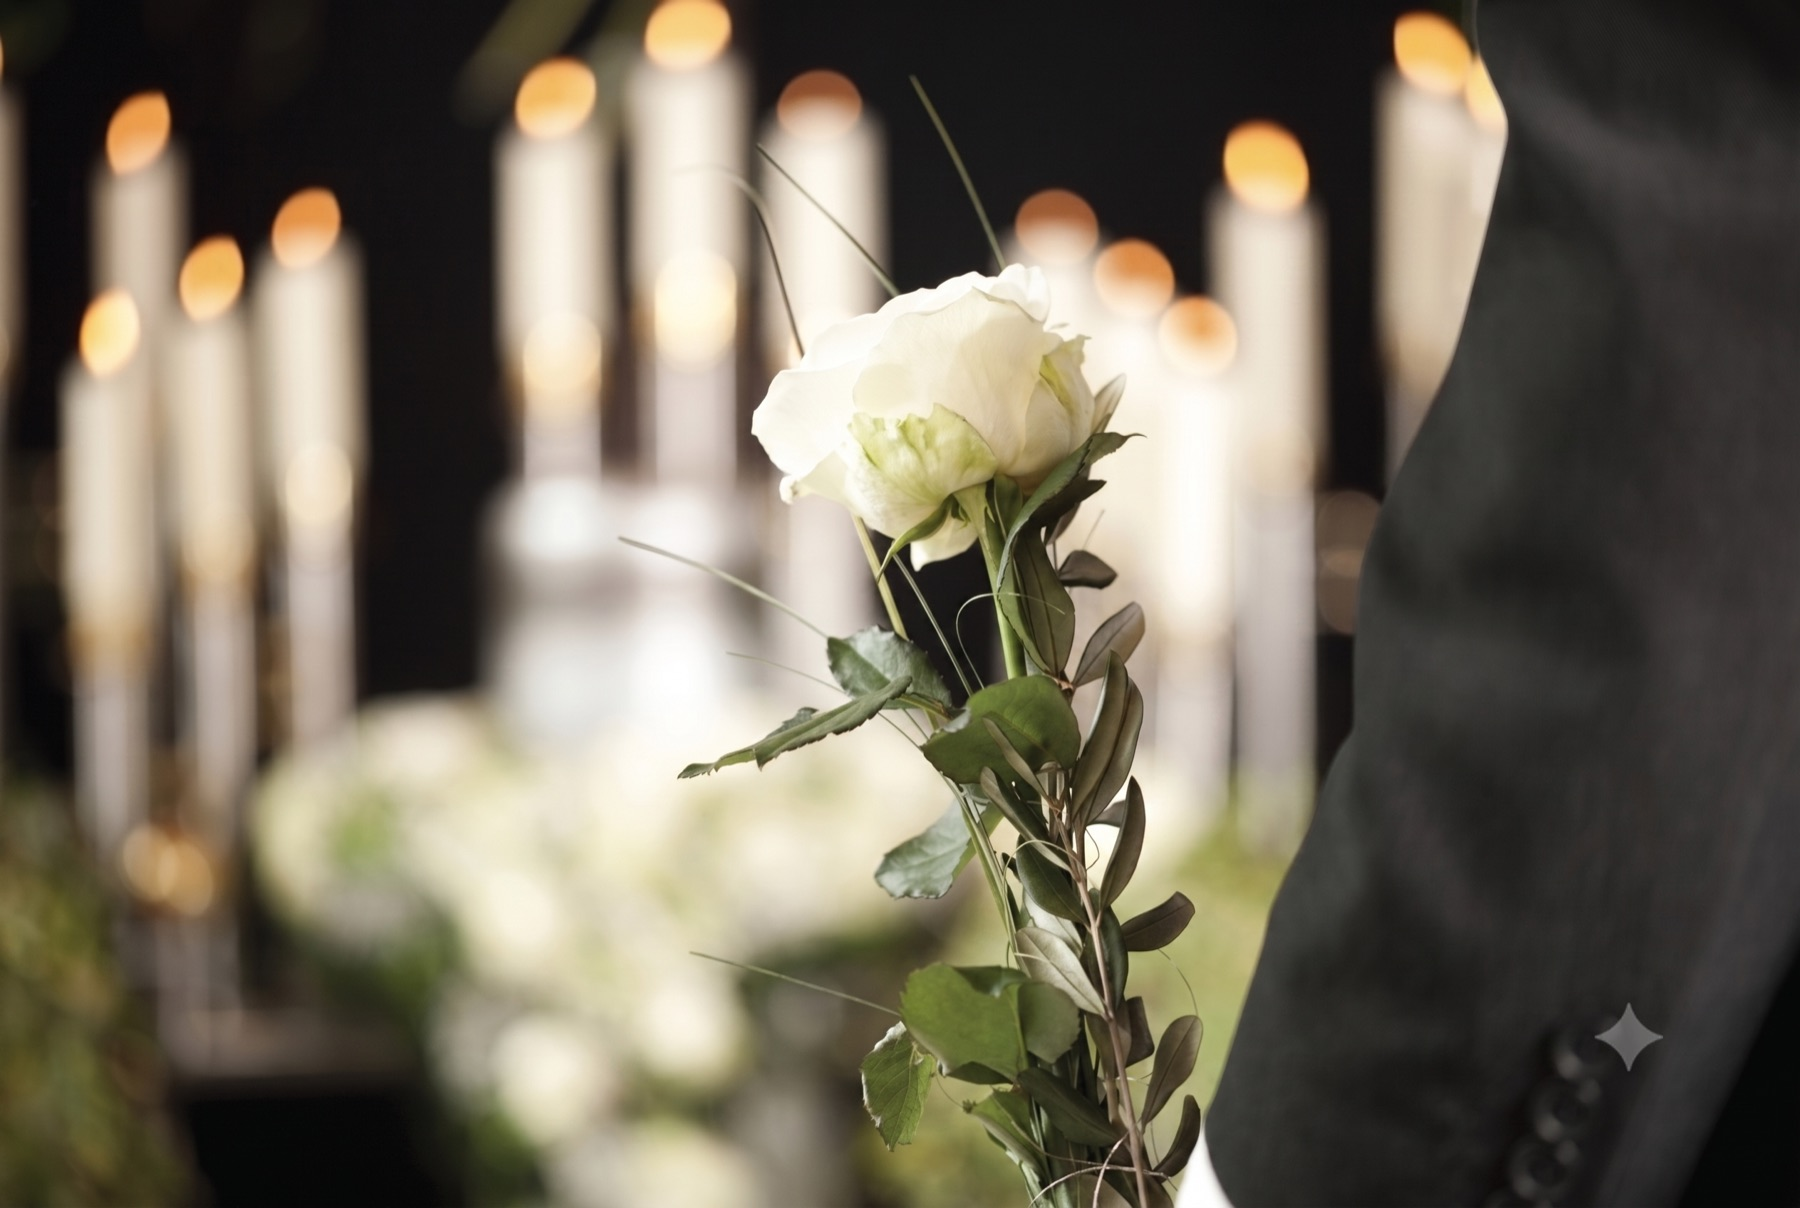
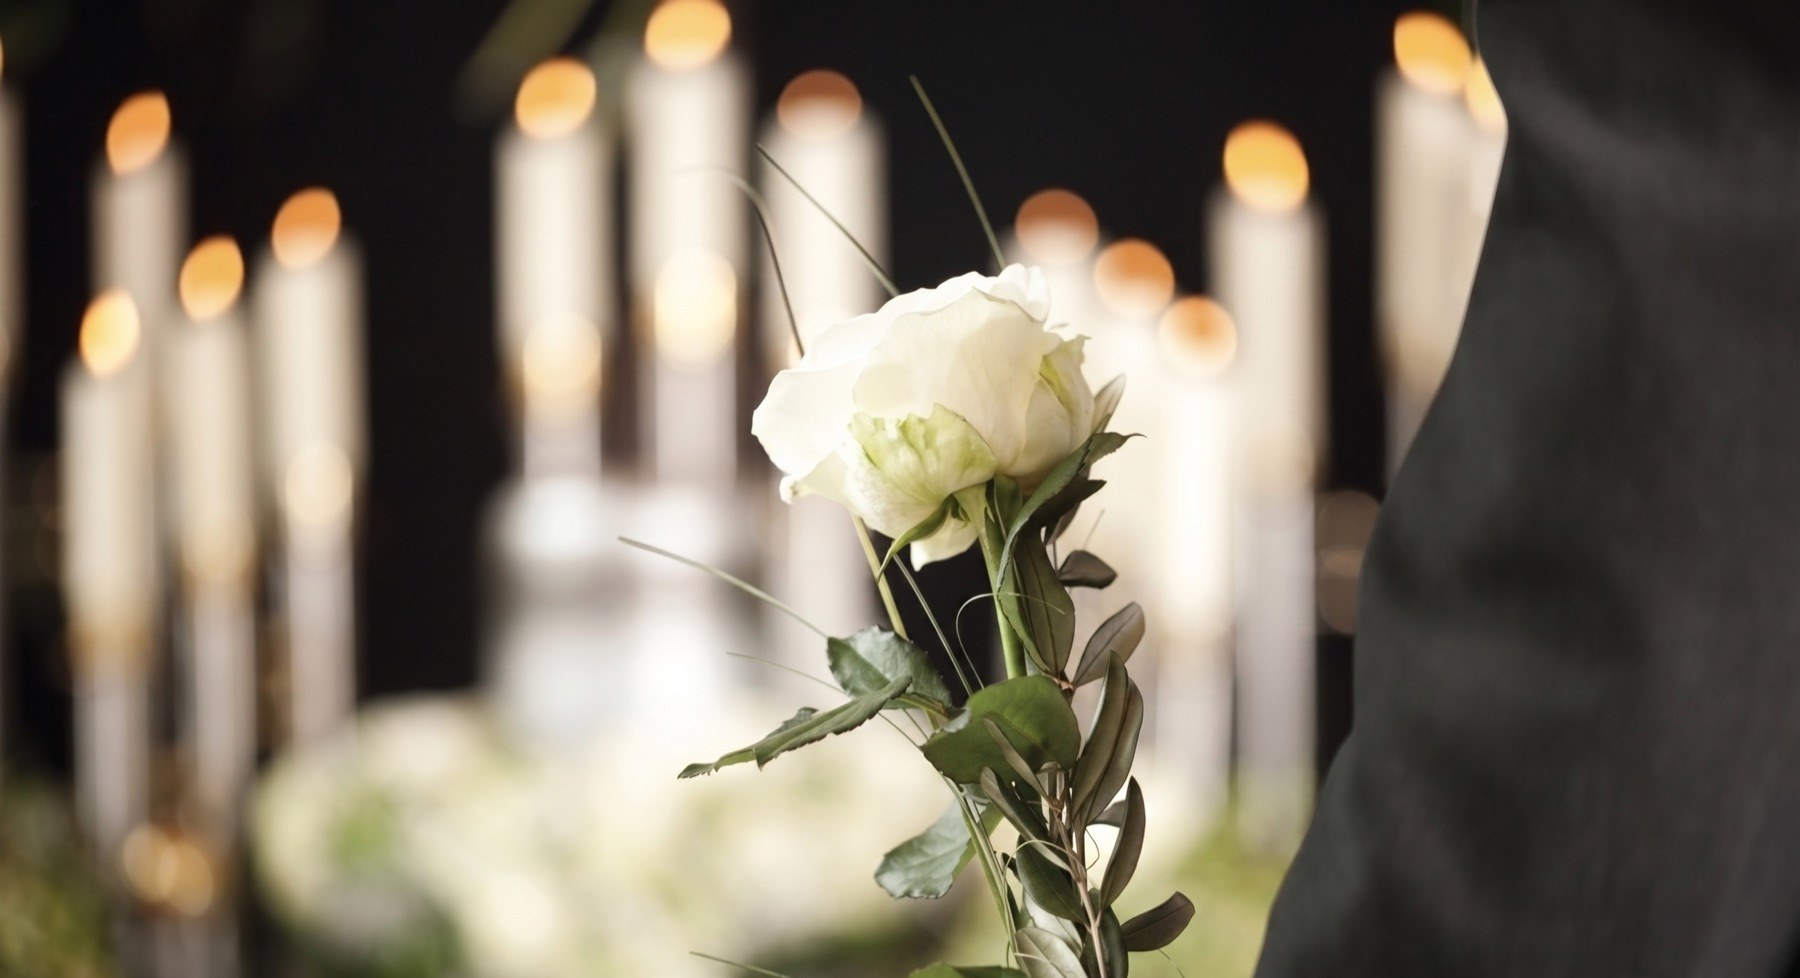
사진 6장의 AI 생성 워터마크 제거, 하단 바 지연 애니메이션 제거, 상담·문의 하단 겹침 해소

diff --git a/assets/css/style.css b/assets/css/style.css
@@ -437,7 +437,7 @@ h1.h2{ font-size:var(--t-h2); }
 
   /* ── 본문 ─────────────────────────────────────── */
   .pbody{
-    display:flex; flex-direction:column; gap:42px;
+    display:flex; flex-direction:column; gap:38px;
     padding:44px var(--gut) calc(var(--m-bar) + env(safe-area-inset-bottom));
   }
   .rule,.actions{ display:none; }
@@ -519,7 +519,7 @@ h1.h2{ font-size:var(--t-h2); }
 
   /* 문의 — 채널 */
   .ch{ display:flex; flex-direction:column; gap:10px; }
-  .ch__item{ display:flex; align-items:center; gap:16px; }
+  .ch__item{ display:flex; align-items:center; gap:16px; padding:14px 18px; }
   .ch__item svg{ width:20px; height:20px; }
   .ch__item b{ font-size:16px; }
   .ch__item b.tel{ font-size:21px; }
@@ -527,7 +527,7 @@ h1.h2{ font-size:var(--t-h2); }
 
   /* ── 푸터 — 본문에서 떼어냅니다 ── */
   .m-info{ order:5;                     /* 홈에서 맨 마지막 (지표·메시지·상품·절차 다음) */
-           display:block; margin-top:8px; padding-top:26px;
+           display:block; margin-top:0; padding-top:18px;
            border-top:1px solid rgba(243,233,219,.14); }
   .m-info .eyebrow{ display:none; }   /* 한 줄 푸터에 라벨은 과합니다 */
   .m-info p{ font-size:12px; font-weight:200; line-height:2.1; color:var(--fg-4); }
@@ -538,7 +538,6 @@ h1.h2{ font-size:var(--t-h2); }
     display:grid; grid-template-columns:repeat(3,1fr); gap:7px;
     padding:13px var(--gut) calc(15px + env(safe-area-inset-bottom));
     background:linear-gradient(180deg,rgba(23,18,14,0) 0%,rgba(23,18,14,.92) 38%,var(--bg) 100%);
-    animation:fadeIn 1.2s .6s ease both;
   }
   .mfoot__btn{
     display:flex; align-items:center; justify-content:center; gap:6px;
